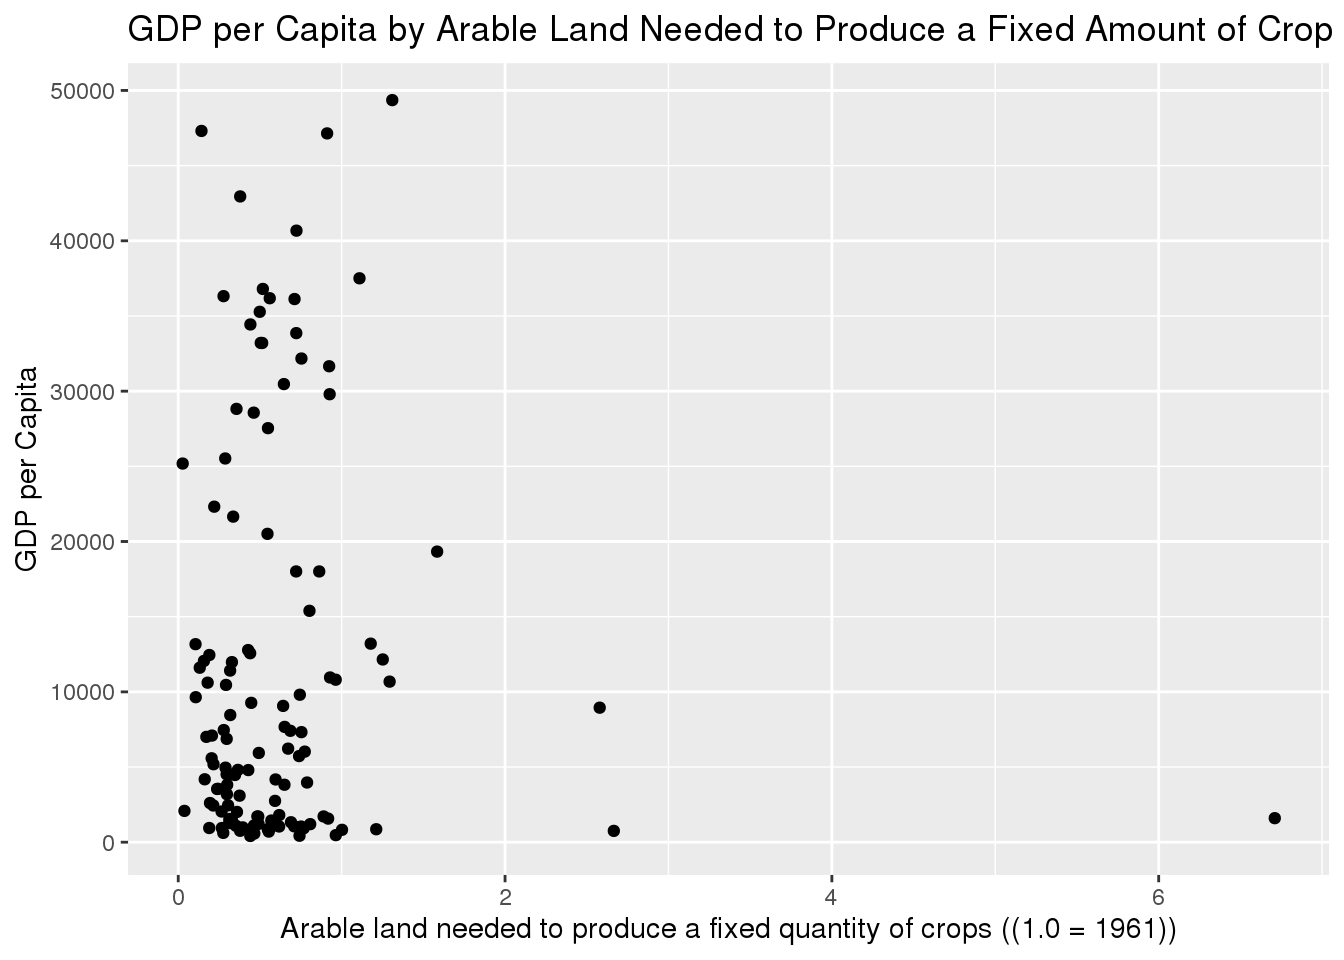
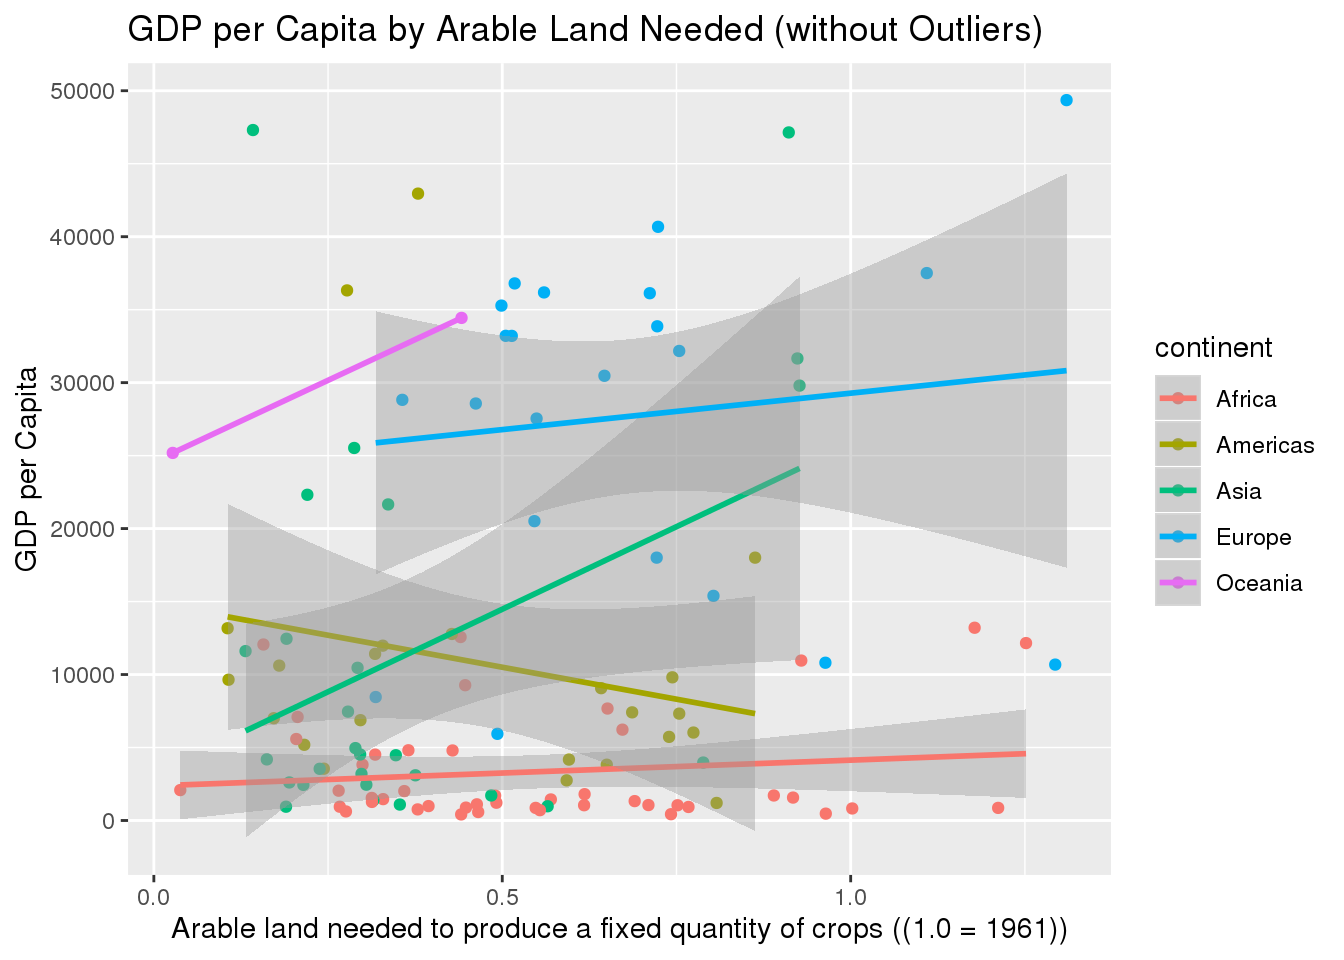
fixed a few code chunks

diff --git a/content/post/2020-12-08-farming-efficiency-analysis/index.html b/content/post/2020-12-08-farming-efficiency-analysis/index.html
@@ -11,4 +11,266 @@ tags: []
 <script src="index_files/anchor-sections/anchor-sections.js"></script>
 
 
+<div id="examination-of-crop-efficiency" class="section level3">
+<h3>Examination of Crop Efficiency</h3>
+</div>
+<div id="introduction" class="section level2">
+<h2>Introduction</h2>
+<p>For this analysis exploring data regarding farming efficiency in countries worldwide. This data comes directly from Tidy Tuesday however it originally came from <a href="https://ourworldindata.org/crop-yields">Our World in Data</a>. This data set gives lots of data about global crop yields and other information relating to farming. Although for my analysis I specifically focused on the arable_land data set as I wanted to explore topics related to farming efficieny. Overall to explore this subject I created 3 hypotheses to explore and test:</p>
+<ol style="list-style-type: decimal">
+<li><p>New Zealand was the second most efficient country in 2014 (relative to itself), but was it always that efficient?</p></li>
+<li><p>What happened with farming efficiency in Qatar?</p></li>
+<li><p>Does farming efficiency relate to life expectancy?</p></li>
+</ol>
+</div>
+<div id="exploratory-data-analysis" class="section level2">
+<h2>Exploratory Data Analysis</h2>
+<p>For this data analysis project I looked at all of the data sets within Global Crop Yields however I found that the arable_land data set gave the best data for the area that I wanted to explore. For this data set there are 11,280 observations and 4 variables. The entity variable gives the name of the country. The code variable gives a three letter code for each country name. The year variable gives the year for which the data was collected. Finally the ‘Arable land needed to produce a fixed quantity of crops ((1.0 = 1961))’ states how much arable land (land that is well suited for growing crops) is needed to get the same amount of food. Something unique about this variable is that is scaled individually to each country. This means that the value under this column gives the amount of arable land needed to produce a certain amount of crop relative to that same country. This is important because otherwise the results would be too inconsistent as factors such as country size, temperature, and type of crop could severly impact the value. One interesting characteristic about this data set is that it is extremely unique to each country. Intuitively this makes sense as every country has different factors that changes their farming efficiency but it does also mean that it is determining worldwide trends can be difficult.</p>
+<pre class="r"><code>arable_land %&gt;%
+  filter(!is.na(Code)) %&gt;%
+  ggplot(aes(x = `Year`, y = `Arable land needed to produce a fixed quantity of crops ((1.0 = 1961))`, group = Entity)) +
+  geom_line(alpha = 0.2) +
+  labs(x = &quot;Year&quot;, y = &quot;Arable Land to Produce Fixed Crop (relative to 1961)&quot;, title = &quot;Arable Land Needed to Produce Fixed Crop for the World&quot;)</code></pre>
+<p><img src="index_files/figure-html/unnamed-chunk-2-1.png" width="672" />
+It is clear to see that most of the data hovers around very small numbers, although there is one big spike, which when arrange the data is clear to see belongs to Qatar. This will be investigated in question 2.</p>
+<p>Another way to overal explore the data is to look at the 10 current most efficient countries and the 10 least.</p>
+<pre class="r"><code>most_efficient &lt;- arable_land %&gt;%
+  filter(Year == max(Year)) %&gt;%
+  arrange(`Arable land needed to produce a fixed quantity of crops ((1.0 = 1961))`) 
 
+worst_ten &lt;- most_efficient[199:208, ]
+
+ p1 &lt;-  worst_ten %&gt;%
+  mutate(mean_arable = mean(`Arable land needed to produce a fixed quantity of crops ((1.0 = 1961))`), median_arable = median(`Arable land needed to produce a fixed quantity of crops ((1.0 = 1961))`)) %&gt;%
+  mutate(bottom_of_list = &quot;10 least efficient&quot;) %&gt;%
+  ggplot(aes(x = bottom_of_list, y = `Arable land needed to produce a fixed quantity of crops ((1.0 = 1961))`)) +
+  geom_boxplot() +
+  labs(x = &quot;Country&quot;, y = &quot;Arable Land Needed&quot;)
+
+
+top_ten &lt;- most_efficient[1:10, ]
+
+p2 &lt;- top_ten %&gt;%
+  mutate(mean_arable = mean(`Arable land needed to produce a fixed quantity of crops ((1.0 = 1961))`), median_arable = median(`Arable land needed to produce a fixed quantity of crops ((1.0 = 1961))`)) %&gt;%
+  mutate(top_of_list = &quot;10 most efficient&quot;) %&gt;%
+  ggplot(aes(x = top_of_list, y = `Arable land needed to produce a fixed quantity of crops ((1.0 = 1961))`)) +
+  geom_boxplot() +
+  ylim(0,0.25) +
+  labs(x = &quot;Country&quot;, y = &quot;Arable Land Needed&quot;, title = &quot;Arable Land Needed to Produce a Fixed Amount of Crop&quot;)
+
+p3 &lt;- p2 +
+  ylim(0,6)
+
+(p1 + p3) + 
+  plot_annotation(title = &#39;Comparison of Arable Land Needed to Produce Fixed Amount of Crop&#39;) </code></pre>
+<p><img src="index_files/figure-html/unnamed-chunk-3-1.png" width="672" /></p>
+<pre class="r"><code>p2</code></pre>
+<p><img src="index_files/figure-html/unnamed-chunk-3-2.png" width="672" /></p>
+<pre class="r"><code>top_ten</code></pre>
+<pre><code>## # A tibble: 10 x 4
+##    Entity           Code   Year `Arable land needed to produce a fixed quantity…
+##    &lt;chr&gt;            &lt;chr&gt; &lt;dbl&gt;                                            &lt;dbl&gt;
+##  1 British Virgin … VGB    2014                                           0.0135
+##  2 New Zealand      NZL    2014                                           0.0326
+##  3 Djibouti         DJI    2014                                           0.0415
+##  4 Kuwait           KWT    2014                                           0.0596
+##  5 Guatemala        GTM    2014                                           0.0942
+##  6 Chile            CHL    2014                                           0.0944
+##  7 Costa Rica       CRI    2014                                           0.105 
+##  8 Iran             IRN    2014                                           0.115 
+##  9 Mongolia         MNG    2014                                           0.126 
+## 10 China, mainland  &lt;NA&gt;   2014                                           0.136</code></pre>
+<pre class="r"><code>worst_ten</code></pre>
+<pre><code>## # A tibble: 10 x 4
+##    Entity          Code   Year `Arable land needed to produce a fixed quantity …
+##    &lt;chr&gt;           &lt;chr&gt; &lt;dbl&gt;                                             &lt;dbl&gt;
+##  1 French Polynes… PYF    2014                                              1.72
+##  2 Maldives        MDV    2014                                              1.73
+##  3 Cuba            CUB    2014                                              2.03
+##  4 Martinique      MTQ    2014                                              2.71
+##  5 Saint Lucia     LCA    2014                                              2.98
+##  6 Barbados        BRB    2014                                              3.00
+##  7 Gambia          GMB    2014                                              3.17
+##  8 Cook Islands    COK    2014                                              4.09
+##  9 Saint Kitts an… KNA    2014                                              4.72
+## 10 Sao Tome and P… STP    2014                                              5.90</code></pre>
+<p>Based on this visualizations it is clear to see that the amount of arable land needed to produce a fixed amount of crops (scaled so that 1.0 = 1961) is drastically different between the top 10 most efficient countries and the lowest 10 countries. The most efficient country in 2014 was the British Virgin Islands (0.0135) and the least efficient was Sao Tome and Principe (5.90). In the first graph the drastic difference between the two is apparent. The second graph is included for reference to show what the box plot for the distribution of the top 10 most efficient countries looks like, however it is critical to notice the difference in y axis scales. For the first visualization the y axis goes from 0 to 6, in contrast for the second plot of just the top 10 countries the y axis goes from 0 to 0.25.</p>
+<p>One interesting note about the conclusion of this analyses is how many small countries are present in the top and lowest 10. Intuitively this makes sense as small countries are small because of the lack of food that they can produce on their own or inversely they are very efficient so that they can support the population that they have.</p>
+<pre class="r"><code>combined &lt;- rbind(top_ten, worst_ten)
+
+tractors %&gt;%
+  filter(Year == &quot;2014&quot;) %&gt;%
+  filter(Code == &quot;VGB&quot; | Code == &quot;NZL&quot; | Code == &quot;DJI&quot; | Code == &quot;KWT&quot; | Code == &quot;GTM&quot; | Code == &quot;CHL&quot; | Code == &quot;CRI&quot; | Code == &quot;IRN&quot; | Code == &quot;MNG&quot; | Code == &quot;CHN&quot; | Code == &quot;PYF&quot; | Code == &quot;MDV&quot; | Code == &quot;CUB&quot; | Code == &quot;MTQ&quot; | Code == &quot;LCA&quot; | Code == &quot;BRB&quot; | Code == &quot;GMB&quot; | Code == &quot;COK&quot; | Code == &quot;KNA&quot; | Code == &quot;STP&quot;) %&gt;% 
+  full_join(combined, by = &quot;Entity&quot;) %&gt;%
+  filter(`Total population (Gapminder)` &lt; 1000000) </code></pre>
+<pre><code>## # A tibble: 10 x 9
+##    Entity Code.x Year.x `Tractors per 1… `Cereal yield (… `Total populati…
+##    &lt;chr&gt;  &lt;chr&gt;  &lt;chr&gt;             &lt;dbl&gt;            &lt;dbl&gt;            &lt;dbl&gt;
+##  1 Barba… BRB    2014                 NA            2700            285000
+##  2 Briti… VGB    2014                 NA              NA             29000
+##  3 Cook … COK    2014                 NA              NA             18000
+##  4 Djibo… DJI    2014                 NA            1936.           899000
+##  5 Frenc… PYF    2014                 NA              NA            272000
+##  6 Maldi… MDV    2014                 NA            2405.           435000
+##  7 Marti… MTQ    2014                 NA              NA            381000
+##  8 Saint… KNA    2014                 NA              NA             51000
+##  9 Saint… LCA    2014                 NA              NA            178000
+## 10 Sao T… STP    2014                 NA            2104.           196000
+## # … with 3 more variables: Code.y &lt;chr&gt;, Year.y &lt;dbl&gt;, `Arable land needed to
+## #   produce a fixed quantity of crops ((1.0 = 1961))` &lt;dbl&gt;</code></pre>
+<p>10 of the countries from the 2 extremes (10 most and least efficient countries worldwide) have populations under 1 million people. However only 2 of these countries are on the top 10 list.</p>
+<p>The other data that I used in this project is from gapminder. I used this data to help support my further analyses of the impact of farming efficiency. This data was from the <a href="https://www.gapminder.org/tools/?from=world#$chart-type=bubbles">Gapminder Project</a>. This data set has 1,704 observations and 6 variables. Country and continent give the name of the country and continent respectively. The year variable gives the year for the data. The lifExp variable gives the average life expectancy in years. The pop variable gives the population size and gdpPercap gives the GDP per capita (total Gross Domestic Product divided by the population).</p>
+</div>
+<div id="data-analyses" class="section level2">
+<h2>Data Analyses</h2>
+<p>For my data analysis I will be breaking this section up by question, taking a look at each one individually.</p>
+</div>
+<div id="question-1" class="section level1">
+<h1>Question 1</h1>
+<p>New Zealand was the second most efficient country in 2014 (relative to itself), but was it always that efficient? Scaled to 1961 = 1.0, the amount of arable land needed to produce the fixed amount of crop was 0.0326. That is over a 96% percent decrease in 54 years. For this problem I am going to visualize the relative efficiency.</p>
+<pre class="r"><code> arable_land %&gt;%
+  filter(Entity == &quot;New Zealand&quot;) </code></pre>
+<pre><code>## # A tibble: 54 x 4
+##    Entity     Code   Year `Arable land needed to produce a fixed quantity of cr…
+##    &lt;chr&gt;      &lt;chr&gt; &lt;dbl&gt;                                                  &lt;dbl&gt;
+##  1 New Zeala… NZL    1961                                                  1    
+##  2 New Zeala… NZL    1962                                                  0.932
+##  3 New Zeala… NZL    1963                                                  0.863
+##  4 New Zeala… NZL    1964                                                  0.767
+##  5 New Zeala… NZL    1965                                                  0.780
+##  6 New Zeala… NZL    1966                                                  0.793
+##  7 New Zeala… NZL    1967                                                  0.786
+##  8 New Zeala… NZL    1968                                                  0.661
+##  9 New Zeala… NZL    1969                                                  0.608
+## 10 New Zeala… NZL    1970                                                  0.637
+## # … with 44 more rows</code></pre>
+<pre class="r"><code>q1 &lt;- arable_land %&gt;%
+  filter(Entity == &quot;New Zealand&quot;) %&gt;%
+  ggplot(aes(x = Year, y = `Arable land needed to produce a fixed quantity of crops ((1.0 = 1961))`)) +
+  geom_line() +
+  labs(x = &quot;Year&quot;, y = &quot;Arable Land Needed to Produce Fixed Crop&quot;) +
+  theme(axis.text.x = element_text(angle = 90))
+
+
+q1 +
+  plot_annotation(title = &quot;Arable Land Needed for Fixed Crop Quantity for New Zealand&quot;) +
+  plot_annotation(subtitle = &quot;1961 = 1.0&quot;)</code></pre>
+<p><img src="index_files/figure-html/unnamed-chunk-5-1.png" width="672" />
+This visualization shows that for the most part, New Zealand is a country that has been constantly improving its farming efficiency. While There were some increases, the overall trend off the graph is undisputedly decreasing.</p>
+</div>
+<div id="question-2" class="section level1">
+<h1>Question 2</h1>
+<ol start="2" style="list-style-type: decimal">
+<li>Examine the farming efficiency in Qatar and see the results of the dramatic increase. To do this look at a combination of statistical analysis and data visualization.</li>
+</ol>
+<pre class="r"><code>arable_land %&gt;%
+  arrange(desc(`Arable land needed to produce a fixed quantity of crops ((1.0 = 1961))`))</code></pre>
+<pre><code>## # A tibble: 11,280 x 4
+##    Entity          Code   Year `Arable land needed to produce a fixed quantity …
+##    &lt;chr&gt;           &lt;chr&gt; &lt;dbl&gt;                                             &lt;dbl&gt;
+##  1 Qatar           QAT    1974                                             93.2 
+##  2 Qatar           QAT    1975                                             84.3 
+##  3 Qatar           QAT    1973                                             52.1 
+##  4 Qatar           QAT    1976                                             47.8 
+##  5 Sao Tome and P… STP    2008                                              7.17
+##  6 Sao Tome and P… STP    2011                                              7.07
+##  7 Sao Tome and P… STP    2009                                              7.04
+##  8 Sao Tome and P… STP    2012                                              6.96
+##  9 Sao Tome and P… STP    2007                                              6.71
+## 10 Sao Tome and P… STP    2004                                              6.66
+## # … with 11,270 more rows</code></pre>
+<p>By far the largest amounts of arable land needed to produce a fixed quantity of crop belongs to Qatar, specifcially in the early to mid 1970’s.</p>
+<pre class="r"><code>arable_land %&gt;%
+  filter(Entity == &quot;Qatar&quot;) </code></pre>
+<pre><code>## # A tibble: 54 x 4
+##    Entity Code   Year `Arable land needed to produce a fixed quantity of crops …
+##    &lt;chr&gt;  &lt;chr&gt; &lt;dbl&gt;                                                      &lt;dbl&gt;
+##  1 Qatar  QAT    1961                                                      1    
+##  2 Qatar  QAT    1962                                                      0.744
+##  3 Qatar  QAT    1963                                                      0.635
+##  4 Qatar  QAT    1964                                                      0.554
+##  5 Qatar  QAT    1965                                                      0.492
+##  6 Qatar  QAT    1966                                                      0.442
+##  7 Qatar  QAT    1967                                                      0.401
+##  8 Qatar  QAT    1968                                                      0.367
+##  9 Qatar  QAT    1969                                                      0.339
+## 10 Qatar  QAT    1970                                                      0.326
+## # … with 44 more rows</code></pre>
+<pre class="r"><code>z1 &lt;- arable_land %&gt;%
+  filter(Entity == &quot;Qatar&quot;) %&gt;%
+  ggplot(aes(x = Year, y = `Arable land needed to produce a fixed quantity of crops ((1.0 = 1961))`)) +
+  geom_line() +
+  labs(x = &quot;Year&quot;, y = &quot;Arable Land&quot;) +
+  theme(axis.text.x = element_text(angle = 90))
+
+z2 &lt;- arable_land %&gt;%
+  filter(Entity == &quot;Qatar&quot;) %&gt;%
+  ggplot(aes(x = Year, y = `Arable land needed to produce a fixed quantity of crops ((1.0 = 1961))`)) +
+  geom_line() +
+  labs(x = &quot;Year&quot;, y = &quot;Arable Land&quot;) +
+  theme(axis.text.x = element_text(angle = 90)) +
+  ylim(0, 3)
+
+z1 + z2 +
+  plot_annotation(title = &quot;Arable Land Needed for Fixed Crop Quantity for New Qatar&quot;) +
+  plot_annotation(subtitle = &quot;1961 = 1.0&quot;)</code></pre>
+<p><img src="index_files/figure-html/unnamed-chunk-7-1.png" width="672" />
+One interesting thing to note is that the spike, while dramatic, is very contained. As shown in the visualization the arable land needed goes back to what it was after the spike quite quickly as shown on the left graph. The graph on the right zooms in to give a better picture of how the efficiency was actually changing, although this graph does exclude the outliers, it shows that Qatar’s farming efficiency actually fluctuates quite a bt. However the changes from year to year have decreased, shown by the fact that the graph is flattening out.</p>
+<p>Qatar is not apart of the gapminder data set, however external research has shown that the spike follows the year after a coup took place to overthrow the royal family only a few years after Qatar gained their independence from Great Britain. Additionally using the gapminder website it shows no significant changes for life expectancy or income during the time period of the spike, concluding that the result was most likely due to a power change and lack of organization.</p>
+</div>
+<div id="question-3" class="section level1">
+<h1>Question 3</h1>
+<p>Does efficiency relate to life expectancy. To analyze this I am going to use a scatter plot to compare the life expectancy variable form gap minder to the <code>arable land needed to produced a fixed crop</code> variable. I will then use a variety of modeling techniques to explore the results.</p>
+<pre class="r"><code>population_data &lt;- gapminder %&gt;%
+  filter(year == max(year))
+
+arable_land_2007_countries &lt;- arable_land %&gt;%
+  filter(Year == &quot;2007&quot;) %&gt;%
+  filter(!is.na(Code))
+
+combination &lt;- population_data %&gt;%
+  left_join(arable_land_2007_countries, by = c(&quot;country&quot; = &quot;Entity&quot;))</code></pre>
+<pre><code>## Warning: Column `country`/`Entity` joining factor and character vector, coercing
+## into character vector</code></pre>
+<pre class="r"><code>ggplot(combination, aes(x = `Arable land needed to produce a fixed quantity of crops ((1.0 = 1961))`, y = lifeExp, color = continent)) +
+  geom_point() +
+  labs(y = &quot;Life Expectancy&quot;, title = &quot;Life Expecancy by Arable Land Needed to Produce a Fixed Amount of Crop (2007)&quot;)</code></pre>
+<pre><code>## Warning: Removed 19 rows containing missing values (geom_point).</code></pre>
+<p><img src="index_files/figure-html/unnamed-chunk-8-1.png" width="672" />
+The above visualization shows that for the most part there is not a strong relationship between the amount of arable land needed to produce a fixed amount of crop and the life expectancy of that country. One thing to note about this visualization is that it is for 2007. In the modern era these two measures may not be as indicative about the other as they might have once been because rich countries are able to import food from other countries. To see if this is the case I will use additional visualization to look at how the amount of arable land neeeded to produce a fixed quantity of crop also relates to the GDP per capita.I am using GDP per capita becuase it is often used as a measure of overall living standards for the citizens in the country.</p>
+<pre class="r"><code>ggplot(combination, aes(x = `Arable land needed to produce a fixed quantity of crops ((1.0 = 1961))`, y = gdpPercap)) +
+  geom_point() +
+  labs(y = &quot;GDP per Capita&quot;, title = &quot;GDP per Capita by Arable Land Needed to Produce a Fixed Amount of Crop (2007)&quot;)</code></pre>
+<pre><code>## Warning: Removed 19 rows containing missing values (geom_point).</code></pre>
+<p><img src="index_files/figure-html/unnamed-chunk-9-1.png" width="672" /></p>
+<pre class="r"><code>ggplot(combination, aes(x = `Arable land needed to produce a fixed quantity of crops ((1.0 = 1961))`, y = gdpPercap, color = continent)) +
+  geom_point() +
+  geom_smooth(method = &quot;lm&quot;) +
+  labs(y = &quot;GDP per Capita&quot;, title = &quot;GDP per Capita by Arable Land Needed to Produce a Fixed Amount of Crop (2007)&quot;)</code></pre>
+<pre><code>## Warning: Removed 19 rows containing non-finite values (stat_smooth).</code></pre>
+<pre><code>## Warning in qt((1 - level)/2, df): NaNs produced</code></pre>
+<pre><code>## Warning: Removed 19 rows containing missing values (geom_point).</code></pre>
+<p><img src="index_files/figure-html/unnamed-chunk-9-2.png" width="672" />
+The two graphs presented are almost identical except for the fact that the last graph includes trend lines and is colored based on continent. The first graph is included to get an overall sense of how the two variables are related. In it, it is possible to tell that there is a slight direct relation between higher amounts of arable land needed and GDP per capita. On the second graph these trends are more pronounced and grouped by continent. Here it is clear to see that that for some continents (Asia, Europe, and Oceania) there is a strong direct relationship between these variables. On the contrary the Americas and Africa have slightly negative trend lines. However the both continents have two large outliers for the amount of arable land needed to produce a fixed amount of crop. If we removed these two data points the resulting graph would show all continents have a direct trend between the amount of arable land needed to produce a fixed amount of crop and GDP per capita.</p>
+<pre class="r"><code>combo &lt;-  combination %&gt;%
+  arrange(desc(`Arable land needed to produce a fixed quantity of crops ((1.0 = 1961))`))
+
+combination_without_outliers1 &lt;- combo[-1, ]
+combination_without_outliers2 &lt;- combination_without_outliers1[-1, ]
+combination_without_outliers3 &lt;- combination_without_outliers2[-1, ]
+combination_without_outliers4 &lt;- combination_without_outliers3[-1, ]
+
+ggplot(combination_without_outliers4, aes(x = `Arable land needed to produce a fixed quantity of crops ((1.0 = 1961))`, y = gdpPercap, color = continent)) +
+  geom_point() +
+  geom_smooth(method = &quot;lm&quot;) +
+  labs(y = &quot;GDP per Capita&quot;, title = &quot;GDP per Capita by Arable Land Needed (without Outliers)&quot;)</code></pre>
+<pre><code>## Warning: Removed 19 rows containing non-finite values (stat_smooth).</code></pre>
+<pre><code>## Warning in qt((1 - level)/2, df): NaNs produced</code></pre>
+<pre><code>## Warning: Removed 19 rows containing missing values (geom_point).</code></pre>
+<p><img src="index_files/figure-html/unnamed-chunk-10-1.png" width="672" /></p>
+<div id="conclusion" class="section level2">
+<h2>Conclusion</h2>
+<p>These data analyses and exploration have allowed additional insight to farming efficiency amongst countries. From a big picture it was clear to see that since 1961 some countries have become way more efficient at farming. The British Virgin Islands need less than 2 percent of the oringal amount of arable land in order to get the same crop output. This goes to show how new farming techniques and modern science have contributed to drastically increase farming efficiency. In a further study of this topic, I would like to study how the introduction of Genetically Modified Organism’s (GMO’s) impacted crop output and farming efficiency.</p>
+<p>The other big result from these data analyses is the conclusion that the farming efficiency is correlated with the economic welfare of a country. In my analysis I specifically looked at the relationship between arable land needed to produce a fixed amount of crop and GDP per capita. While some continents had a stronger correlation than others, all of the correlations are positive. As the world has become more globalized, rich countries have been able to import food and therefore do not need as high farming efficiency. To further this portion of the analysis I would like to compare the farming index to the 4 indicators of the Human Development Index to investigate further how farming efficiency (or inefficiency) is correlated to the divide between more developed and less developed countries.</p>
+</div>
+</div>
